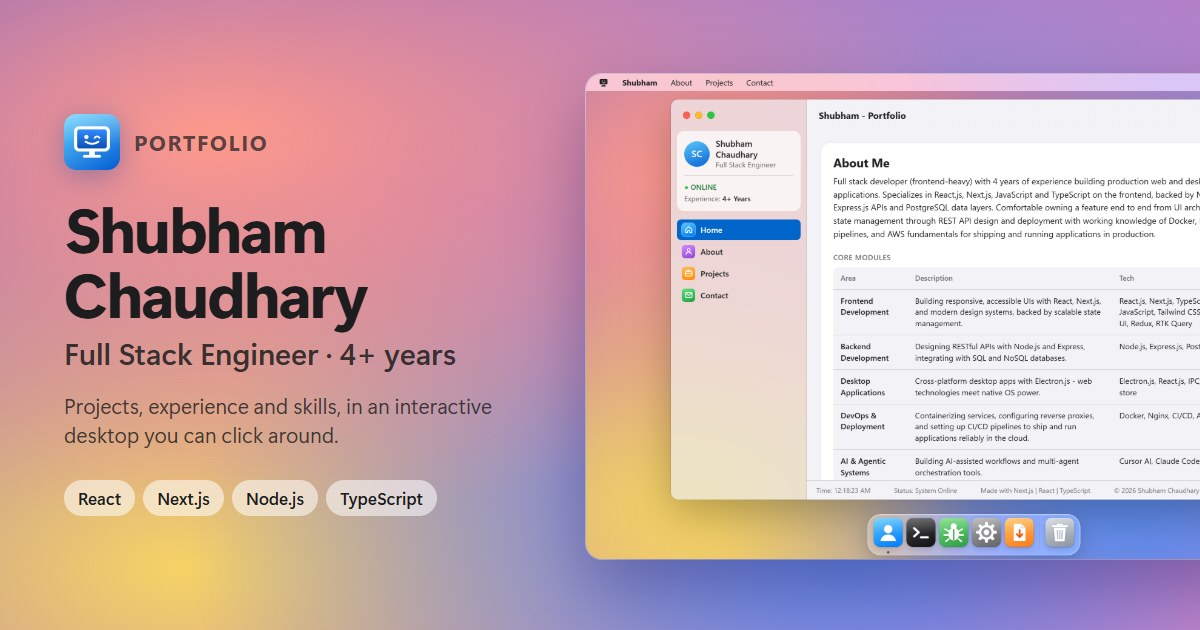
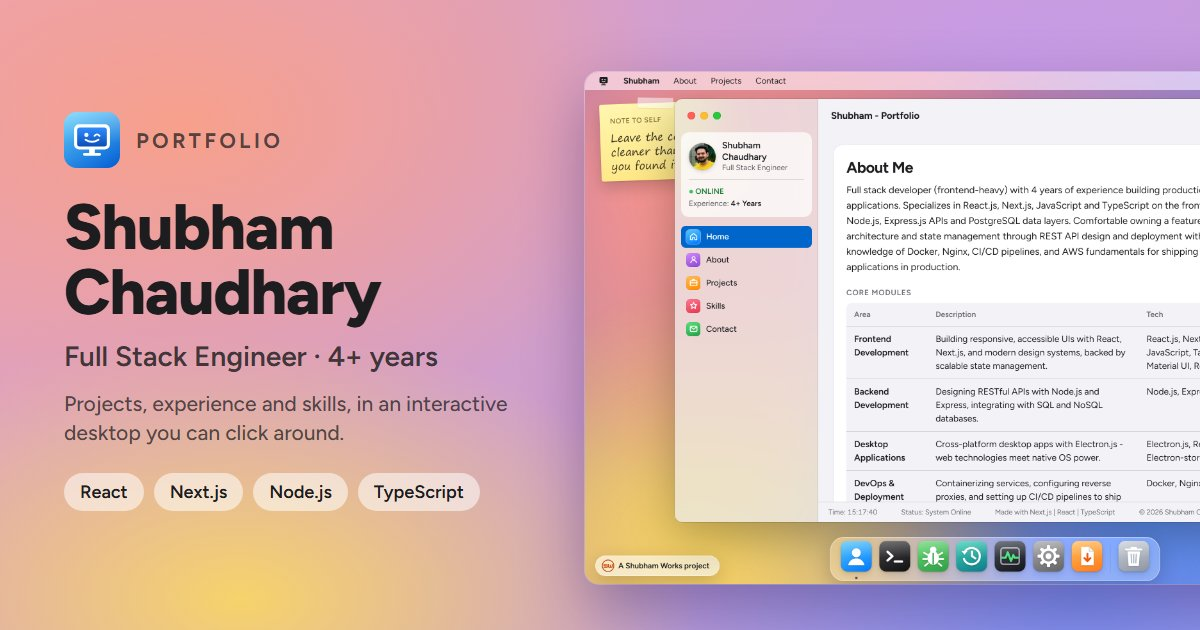
Refresh the share image and docs, link the Hashnode blog (#30)
- og-image.jpg retaken from today's desktop (photo, Skills tab, desktop
  icons, full Dock, Figtree); the like count is left out so it can't go stale.
- Say "plain CSS (no framework)" instead of "hand-written CSS", and note in
  the README that AI coding tools helped build the site.
- Hashnode link now goes to the blog (shubham-works.hashnode.dev) instead of
  the profile page.
- .env.example and docs mention the Debug Runner top score.

diff --git a/tests/e2e/desktop.spec.ts b/tests/e2e/desktop.spec.ts
@@ -130,7 +130,7 @@ test('Contact shows the profile links beside the form, and below it in a narrow 
   await expect(links.nth(0)).toHaveAttribute('href', 'https://github.com/chaudharyShub');
   await expect(links.nth(0)).toHaveAttribute('rel', 'noopener noreferrer');
   await expect(links.nth(2)).toHaveAttribute('href', 'https://dev.to/shubham_works');
-  await expect(links.nth(3)).toHaveAttribute('href', 'https://hashnode.com/@shubhamworks');
+  await expect(links.nth(3)).toHaveAttribute('href', 'https://shubham-works.hashnode.dev');
   // Only actions stay in the button row.
   await expect(page.locator('#section-contact .links-row').getByRole('link', { name: 'GitHub' })).toHaveCount(0);
   // The Links Home Screen icon is for phones only.
@@ -210,7 +210,7 @@ test('Terminal runs commands and clears', async ({ page }) => {
   await input.fill('links');
   await input.press('Enter');
   await expect(output).toContainText('https://github.com/chaudharyShub');
-  await expect(output).toContainText('https://hashnode.com/@shubhamworks');
+  await expect(output).toContainText('https://shubham-works.hashnode.dev');
 
   // help lists resume and points to the hidden commands; hint gives one clue at a time.
   await input.fill('help');

diff --git a/data/profile.ts b/data/profile.ts
@@ -41,7 +41,7 @@ export const PROFILE = {
     hashnode: {
       label: 'Hashnode',
       detail: '@shubhamworks',
-      href: 'https://hashnode.com/@shubhamworks',
+      href: 'https://shubham-works.hashnode.dev',
     },
     instagram: {
       label: 'Instagram',

diff --git a/CLAUDE.md b/CLAUDE.md
@@ -3,7 +3,7 @@
 ## What this is
 The personal portfolio of Shubham Chaudhary (Full Stack Engineer), built as an interactive desktop:
 an Apple-inspired desktop on computers and an app-style Home Screen on phones. Next.js App Router,
-TypeScript strict, hand-written CSS. Live at https://shubhamworks.vercel.app (Vercel deploys `main`).
+TypeScript strict, plain CSS (no framework). Live at https://shubhamworks.vercel.app (Vercel deploys `main`).
 
 **Earlier Windows 95 version:** preserved on branch `windows-95-classic` and tag `win95-final`
 (commit 51a3789). It was removed from `main` in Oct 2026 at the user's request - don't bring
@@ -42,6 +42,9 @@ Lead with the person, then the experience: it is **Shubham's portfolio** (Full S
 "macOS" or "iOS" in titles, descriptions, share text or the share image ("desktop-style" /
 "interactive desktop" is fine). Copy lives in `lib/site.ts` (title, description, share text),
 `package.json`, README and `og-image.jpg`. Prefer plain hyphens over em dashes in UI text.
+- **Honest about how it's made** (user's rule, Nov 2026): never call the CSS "hand-written"
+  (say "plain CSS" / "no framework"). Saying AI was used is fine and expected; never say it was
+  made entirely by AI or name it as "100% made by Claude".
 
 ## Design
 - Apple-inspired, not Apple assets: no Apple logo (the menu-bar logo is our winking-monitor
@@ -418,7 +421,8 @@ Lead with the person, then the experience: it is **Shubham's portfolio** (Full S
 - **Profile links** (Nov 2026): one ordered list, `PROFILE.links` in `data/profile.ts` (keyed by
   `ProfileLinkId`; `PROFILE_LINKS` is the same list as an array with ids). Each link has `label`,
   `detail` (handle shown under the name) and `href`. Current order: GitHub, LinkedIn, dev.to
-  (`https://dev.to/shubham_works`), Hashnode (`https://hashnode.com/@shubhamworks`), Instagram.
+  (`https://dev.to/shubham_works`), Hashnode (`https://shubham-works.hashnode.dev`: the blog, not the `hashnode.com/@shubhamworks`
+  profile - user's call, Nov 2026; `detail` stays the handle), Instagram.
   Every link shows in: the Contact section's "Find me online" card, the logo menu on computers
   (a "Links ›" item with a macOS-style submenu, `#logo-menu-links`: opens on hover, click,
   Right arrow / Enter / Space; Up/Down move, Left goes back; pointing at another item closes it.
@@ -524,8 +528,10 @@ Lead with the person, then the experience: it is **Shubham's portfolio** (Full S
   manifest-only `icon-192/512` and `icon-maskable-*` were deleted with the PWA; `favicon.ico` holds 16/32/48 PNGs; `icon.svg` is also
   the SVG favicon. Many concepts were tried before the winking monitor; don't swap it for a generic icon.
 - **Link previews**: Open Graph + Twitter tags from `lib/site.ts`. `og-image.jpg` (1200x630, JPEG
-  ~105 KB to stay under WhatsApp's preview size limit) is a real screenshot of the desktop in a card
-  that leads with "Portfolio / Shubham Chaudhary / Full Stack Engineer - 4+ years".
+  ~100 KB to stay under WhatsApp's preview size limit) is a real screenshot of the desktop in a card
+  that leads with "Portfolio / Shubham Chaudhary / Full Stack Engineer - 4+ years". Retaken
+  2026-11-09 (photo, Skills tab, desktop icons, full Dock, Figtree); the like chip is hidden in
+  it so no count goes stale. How to redo it: MAINTENANCE.md, "Share image".
 - **SEO**: meta description, JSON-LD, a visually hidden `<h1>`; section titles are `<h2>`
   inside each `<legend>` so headings go h1 -> h2 -> h3. `<main>` is the landmark; `role="tabpanel"`
   is on the div inside it.
@@ -604,7 +610,7 @@ inventing placeholder text - this reflects a real person's actual career history
   resume PDF.
 
 ## Known constraints
-- Next.js App Router + TypeScript (strict) + hand-written CSS. Runtime dependencies are only
+- Next.js App Router + TypeScript (strict) + plain CSS (no framework). Runtime dependencies are only
   `next`, `react`, `react-dom`, `@vercel/analytics`, `@vercel/speed-insights` - don't add libraries
   without a clear reason.
   npm is the package manager.

diff --git a/README.md b/README.md
@@ -13,7 +13,7 @@ an app-style Home Screen.
 
 ![Next.js](https://img.shields.io/badge/Next.js-App%20Router-1d1d1f?style=flat-square)
 ![TypeScript](https://img.shields.io/badge/TypeScript-strict-0066cc?style=flat-square)
-![CSS](https://img.shields.io/badge/CSS-hand--written-6e6e73?style=flat-square)
+![CSS](https://img.shields.io/badge/CSS-plain%2C%20no%20framework-6e6e73?style=flat-square)
 ![Runtime deps](https://img.shields.io/badge/runtime%20deps-next%20%2B%20react%20%2B%20vercel%20insights-34c759?style=flat-square)
 
 <br>
@@ -70,8 +70,10 @@ worth a try.
 
 ## How it's built
 
-- **Next.js App Router, TypeScript (strict), hand-written CSS.** No UI library, no CSS
-  framework; the only runtime dependencies are Next.js, React and Vercel's analytics.
+- **Next.js App Router, TypeScript (strict), plain CSS.** No UI library, no CSS framework, no
+  CSS-in-JS; the only runtime dependencies are Next.js, React and Vercel's analytics.
+- **Built with AI assistance.** AI coding tools helped write the code; what the site is, what
+  made it in and what got cut were decided and tested by me on real devices.
 - **Server-rendered content.** Every portfolio section is a Server Component, so all the text is
   in the HTML for search engines before any JavaScript runs; the client desktop only decides
   which sections a tab shows.
@@ -102,7 +104,7 @@ worth a try.
 [GitHub](https://github.com/chaudharyShub) ·
 [LinkedIn](https://www.linkedin.com/in/shubham-chaudhary-4398bba8) ·
 [dev.to](https://dev.to/shubham_works) ·
-[Hashnode](https://hashnode.com/@shubhamworks)
+[Hashnode](https://shubham-works.hashnode.dev)
 
 <div align="center">
 <br>
